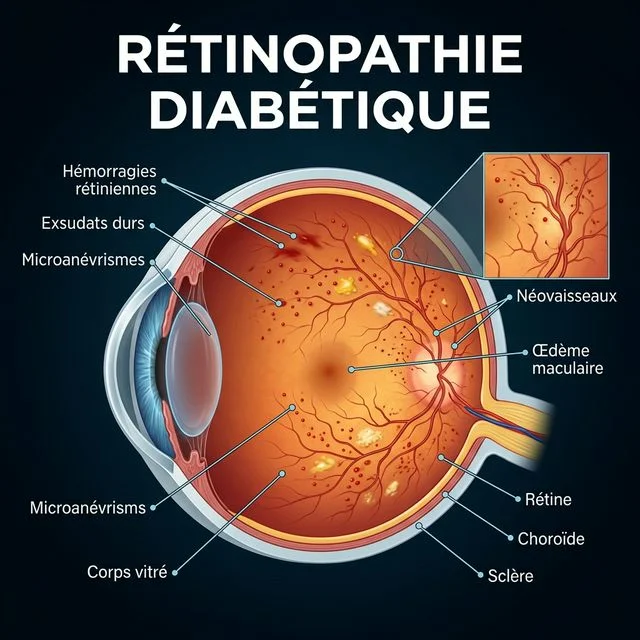
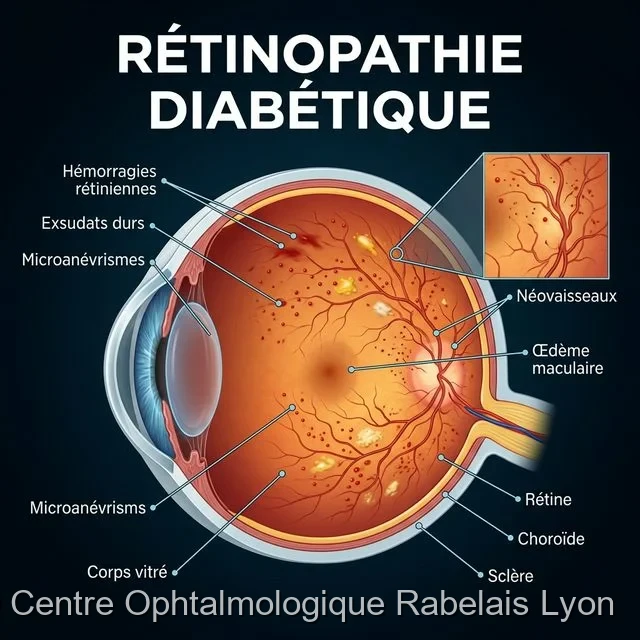
feat: watermark pathology illustrations and add right-click protection

Changed region(s): [[0.0, 0.9062, 0.9688, 0.9688]]

diff --git a/src/app/pathologies-retiniennes/page.tsx b/src/app/pathologies-retiniennes/page.tsx
@@ -158,7 +158,7 @@ export default function PathologiesOculairesPage() {
 										<b><h3><span class="cicle"></span><u>Rétinopathie Diabétique</u></h3></b>
 <div className="w-full sm:w-1/2 md:w-1/3 xl:w-1/4 float-right ml-0 md:ml-8 mb-6 mt-4 rounded-xl overflow-hidden shadow-lg border border-gray-100 bg-white p-2">
   <div className="relative aspect-square w-full rounded-lg overflow-hidden bg-[#f8f9fa] flex items-center justify-center">
-    <img src="/images/pathologies/diabetique.webp" alt="Rétinopathie Diabétique" className="w-full h-full object-cover transition-transform duration-700 hover:scale-105" />
+    <img oncontextmenu="return false;" draggable="false" src="/images/pathologies/diabetique.webp" alt="Rétinopathie Diabétique" className="w-full h-full object-cover transition-transform duration-700 hover:scale-105"  style="pointer-events: none; user-select: none; -webkit-user-drag: none;" />
   </div>
 </div>
 
@@ -211,7 +211,7 @@ export default function PathologiesOculairesPage() {
 										<b><h3><span class="cicle"></span><u>Occlusion Vasculaire</u></h3></b>
 <div className="w-full sm:w-1/2 md:w-1/3 xl:w-1/4 float-right ml-0 md:ml-8 mb-6 mt-4 rounded-xl overflow-hidden shadow-lg border border-gray-100 bg-white p-2">
   <div className="relative aspect-square w-full rounded-lg overflow-hidden bg-[#f8f9fa] flex items-center justify-center">
-    <img src="/images/pathologies/vasculaire.webp" alt="Occlusion Vasculaire" className="w-full h-full object-cover transition-transform duration-700 hover:scale-105" />
+    <img oncontextmenu="return false;" draggable="false" src="/images/pathologies/vasculaire.webp" alt="Occlusion Vasculaire" className="w-full h-full object-cover transition-transform duration-700 hover:scale-105"  style="pointer-events: none; user-select: none; -webkit-user-drag: none;" />
   </div>
 </div>
 
@@ -221,7 +221,7 @@ export default function PathologiesOculairesPage() {
 										<b><h3><span class="cicle"></span><u>Maladie de Coats</u></h3></b>
 <div className="w-full sm:w-1/2 md:w-1/3 xl:w-1/4 float-right ml-0 md:ml-8 mb-6 mt-4 rounded-xl overflow-hidden shadow-lg border border-gray-100 bg-white p-2">
   <div className="relative aspect-square w-full rounded-lg overflow-hidden bg-[#f8f9fa] flex items-center justify-center">
-    <img src="/images/pathologies/coats.webp" alt="Maladie de Coats" className="w-full h-full object-cover transition-transform duration-700 hover:scale-105" />
+    <img oncontextmenu="return false;" draggable="false" src="/images/pathologies/coats.webp" alt="Maladie de Coats" className="w-full h-full object-cover transition-transform duration-700 hover:scale-105"  style="pointer-events: none; user-select: none; -webkit-user-drag: none;" />
   </div>
 </div>
 
@@ -258,7 +258,7 @@ export default function PathologiesOculairesPage() {
 										<b><h3><span class="cicle"></span><u>CRSC (Chorio-Rétinopathie -Séreuse-Centrale)</u></h3></b>
 <div className="w-full sm:w-1/2 md:w-1/3 xl:w-1/4 float-right ml-0 md:ml-8 mb-6 mt-4 rounded-xl overflow-hidden shadow-lg border border-gray-100 bg-white p-2">
   <div className="relative aspect-square w-full rounded-lg overflow-hidden bg-[#f8f9fa] flex items-center justify-center">
-    <img src="/images/pathologies/crsc.webp" alt="CRSC (Chorio-Rétinopathie -Séreuse-Centrale)" className="w-full h-full object-cover transition-transform duration-700 hover:scale-105" />
+    <img oncontextmenu="return false;" draggable="false" src="/images/pathologies/crsc.webp" alt="CRSC (Chorio-Rétinopathie -Séreuse-Centrale)" className="w-full h-full object-cover transition-transform duration-700 hover:scale-105"  style="pointer-events: none; user-select: none; -webkit-user-drag: none;" />
   </div>
 </div>
 
@@ -318,7 +318,7 @@ export default function PathologiesOculairesPage() {
 										<b><h3><span class="cicle"></span><u>Maladie de Best</u></h3></b>
 <div className="w-full sm:w-1/2 md:w-1/3 xl:w-1/4 float-right ml-0 md:ml-8 mb-6 mt-4 rounded-xl overflow-hidden shadow-lg border border-gray-100 bg-white p-2">
   <div className="relative aspect-square w-full rounded-lg overflow-hidden bg-[#f8f9fa] flex items-center justify-center">
-    <img src="/images/pathologies/best.webp" alt="Maladie de Best" className="w-full h-full object-cover transition-transform duration-700 hover:scale-105" />
+    <img oncontextmenu="return false;" draggable="false" src="/images/pathologies/best.webp" alt="Maladie de Best" className="w-full h-full object-cover transition-transform duration-700 hover:scale-105"  style="pointer-events: none; user-select: none; -webkit-user-drag: none;" />
   </div>
 </div>
 
@@ -351,7 +351,7 @@ export default function PathologiesOculairesPage() {
 										<b><h3><span class="cicle"></span><u>Rétinite Pigmentaire</u></h3></b>
 <div className="w-full sm:w-1/2 md:w-1/3 xl:w-1/4 float-right ml-0 md:ml-8 mb-6 mt-4 rounded-xl overflow-hidden shadow-lg border border-gray-100 bg-white p-2">
   <div className="relative aspect-square w-full rounded-lg overflow-hidden bg-[#f8f9fa] flex items-center justify-center">
-    <img src="/images/pathologies/retinite.webp" alt="Rétinite Pigmentaire" className="w-full h-full object-cover transition-transform duration-700 hover:scale-105" />
+    <img oncontextmenu="return false;" draggable="false" src="/images/pathologies/retinite.webp" alt="Rétinite Pigmentaire" className="w-full h-full object-cover transition-transform duration-700 hover:scale-105"  style="pointer-events: none; user-select: none; -webkit-user-drag: none;" />
   </div>
 </div>
 
@@ -361,7 +361,7 @@ export default function PathologiesOculairesPage() {
 										<b><h3><span class="cicle"></span><u>Décollement Postérieur du Vitré</u></h3></b>
 <div className="w-full sm:w-1/2 md:w-1/3 xl:w-1/4 float-right ml-0 md:ml-8 mb-6 mt-4 rounded-xl overflow-hidden shadow-lg border border-gray-100 bg-white p-2">
   <div className="relative aspect-square w-full rounded-lg overflow-hidden bg-[#f8f9fa] flex items-center justify-center">
-    <img src="/images/pathologies/dpv.webp" alt="Décollement Postérieur du Vitré" className="w-full h-full object-cover transition-transform duration-700 hover:scale-105" />
+    <img oncontextmenu="return false;" draggable="false" src="/images/pathologies/dpv.webp" alt="Décollement Postérieur du Vitré" className="w-full h-full object-cover transition-transform duration-700 hover:scale-105"  style="pointer-events: none; user-select: none; -webkit-user-drag: none;" />
   </div>
 </div>
 
@@ -376,7 +376,7 @@ export default function PathologiesOculairesPage() {
 										<b><h3><span class="cicle"></span><u>Traction Vitréo-Maculaire</u></h3></b>
 <div className="w-full sm:w-1/2 md:w-1/3 xl:w-1/4 float-right ml-0 md:ml-8 mb-6 mt-4 rounded-xl overflow-hidden shadow-lg border border-gray-100 bg-white p-2">
   <div className="relative aspect-square w-full rounded-lg overflow-hidden bg-[#f8f9fa] flex items-center justify-center">
-    <img src="/images/pathologies/traction.webp" alt="Traction Vitréo-Maculaire" className="w-full h-full object-cover transition-transform duration-700 hover:scale-105" />
+    <img oncontextmenu="return false;" draggable="false" src="/images/pathologies/traction.webp" alt="Traction Vitréo-Maculaire" className="w-full h-full object-cover transition-transform duration-700 hover:scale-105"  style="pointer-events: none; user-select: none; -webkit-user-drag: none;" />
   </div>
 </div>
 
@@ -389,7 +389,7 @@ export default function PathologiesOculairesPage() {
 										<b><h3><span class="cicle"></span><u>Déchirure Rétinienne à Clapet</u></h3></b>
 <div className="w-full sm:w-1/2 md:w-1/3 xl:w-1/4 float-right ml-0 md:ml-8 mb-6 mt-4 rounded-xl overflow-hidden shadow-lg border border-gray-100 bg-white p-2">
   <div className="relative aspect-square w-full rounded-lg overflow-hidden bg-[#f8f9fa] flex items-center justify-center">
-    <img src="/images/pathologies/dechirure.webp" alt="Déchirure Rétinienne à Clapet" className="w-full h-full object-cover transition-transform duration-700 hover:scale-105" />
+    <img oncontextmenu="return false;" draggable="false" src="/images/pathologies/dechirure.webp" alt="Déchirure Rétinienne à Clapet" className="w-full h-full object-cover transition-transform duration-700 hover:scale-105"  style="pointer-events: none; user-select: none; -webkit-user-drag: none;" />
   </div>
 </div>
 
@@ -402,7 +402,7 @@ export default function PathologiesOculairesPage() {
 										<b><h3><span class="cicle"></span><u>Décollement de Rétine</u></h3></b>
 <div className="w-full sm:w-1/2 md:w-1/3 xl:w-1/4 float-right ml-0 md:ml-8 mb-6 mt-4 rounded-xl overflow-hidden shadow-lg border border-gray-100 bg-white p-2">
   <div className="relative aspect-square w-full rounded-lg overflow-hidden bg-[#f8f9fa] flex items-center justify-center">
-    <img src="/images/pathologies/decollement.webp" alt="Décollement de Rétine" className="w-full h-full object-cover transition-transform duration-700 hover:scale-105" />
+    <img oncontextmenu="return false;" draggable="false" src="/images/pathologies/decollement.webp" alt="Décollement de Rétine" className="w-full h-full object-cover transition-transform duration-700 hover:scale-105"  style="pointer-events: none; user-select: none; -webkit-user-drag: none;" />
   </div>
 </div>
 
@@ -423,7 +423,7 @@ export default function PathologiesOculairesPage() {
 										<b><h3><span class="cicle"></span><u>Trou Maculaire</u></h3></b>
 <div className="w-full sm:w-1/2 md:w-1/3 xl:w-1/4 float-right ml-0 md:ml-8 mb-6 mt-4 rounded-xl overflow-hidden shadow-lg border border-gray-100 bg-white p-2">
   <div className="relative aspect-square w-full rounded-lg overflow-hidden bg-[#f8f9fa] flex items-center justify-center">
-    <img src="/images/pathologies/trou.webp" alt="Trou Maculaire" className="w-full h-full object-cover transition-transform duration-700 hover:scale-105" />
+    <img oncontextmenu="return false;" draggable="false" src="/images/pathologies/trou.webp" alt="Trou Maculaire" className="w-full h-full object-cover transition-transform duration-700 hover:scale-105"  style="pointer-events: none; user-select: none; -webkit-user-drag: none;" />
   </div>
 </div>
 
@@ -448,7 +448,7 @@ export default function PathologiesOculairesPage() {
 										<b><h3><span class="cicle"></span><u>Membrane Epirétinienne (M.E.R)</u></h3></b>
 <div className="w-full sm:w-1/2 md:w-1/3 xl:w-1/4 float-right ml-0 md:ml-8 mb-6 mt-4 rounded-xl overflow-hidden shadow-lg border border-gray-100 bg-white p-2">
   <div className="relative aspect-square w-full rounded-lg overflow-hidden bg-[#f8f9fa] flex items-center justify-center">
-    <img src="/images/pathologies/mer.webp" alt="Membrane Epirétinienne (M.E.R)" className="w-full h-full object-cover transition-transform duration-700 hover:scale-105" />
+    <img oncontextmenu="return false;" draggable="false" src="/images/pathologies/mer.webp" alt="Membrane Epirétinienne (M.E.R)" className="w-full h-full object-cover transition-transform duration-700 hover:scale-105"  style="pointer-events: none; user-select: none; -webkit-user-drag: none;" />
   </div>
 </div>
 
@@ -467,7 +467,7 @@ export default function PathologiesOculairesPage() {
 										<b><h3><span class="cicle"></span><u>Sècheresse oculaire</u></h3></b>
 <div className="w-full sm:w-1/2 md:w-1/3 xl:w-1/4 float-right ml-0 md:ml-8 mb-6 mt-4 rounded-xl overflow-hidden shadow-lg border border-gray-100 bg-white p-2">
   <div className="relative aspect-square w-full rounded-lg overflow-hidden bg-[#f8f9fa] flex items-center justify-center">
-    <img src="/images/pathologies/secheresse.webp" alt="Sècheresse oculaire" className="w-full h-full object-cover transition-transform duration-700 hover:scale-105" />
+    <img oncontextmenu="return false;" draggable="false" src="/images/pathologies/secheresse.webp" alt="Sècheresse oculaire" className="w-full h-full object-cover transition-transform duration-700 hover:scale-105"  style="pointer-events: none; user-select: none; -webkit-user-drag: none;" />
   </div>
 </div>
 
@@ -550,7 +550,7 @@ export default function PathologiesOculairesPage() {
 										<b><h3><span class="cicle"></span><u>Glaucome </u></h3></b>
 <div className="w-full sm:w-1/2 md:w-1/3 xl:w-1/4 float-right ml-0 md:ml-8 mb-6 mt-4 rounded-xl overflow-hidden shadow-lg border border-gray-100 bg-white p-2">
   <div className="relative aspect-square w-full rounded-lg overflow-hidden bg-[#f8f9fa] flex items-center justify-center">
-    <img src="/images/pathologies/glaucome.webp" alt="Glaucome" className="w-full h-full object-cover transition-transform duration-700 hover:scale-105" />
+    <img oncontextmenu="return false;" draggable="false" src="/images/pathologies/glaucome.webp" alt="Glaucome" className="w-full h-full object-cover transition-transform duration-700 hover:scale-105"  style="pointer-events: none; user-select: none; -webkit-user-drag: none;" />
   </div>
 </div>
 
@@ -602,7 +602,7 @@ export default function PathologiesOculairesPage() {
 										<b><h3><span class="cicle"></span><u>Kératocône</u></h3></b>
 <div className="w-full sm:w-1/2 md:w-1/3 xl:w-1/4 float-right ml-0 md:ml-8 mb-6 mt-4 rounded-xl overflow-hidden shadow-lg border border-gray-100 bg-white p-2">
   <div className="relative aspect-square w-full rounded-lg overflow-hidden bg-[#f8f9fa] flex items-center justify-center">
-    <img src="/images/pathologies/keratocone.webp" alt="Kératocône" className="w-full h-full object-cover transition-transform duration-700 hover:scale-105" />
+    <img oncontextmenu="return false;" draggable="false" src="/images/pathologies/keratocone.webp" alt="Kératocône" className="w-full h-full object-cover transition-transform duration-700 hover:scale-105"  style="pointer-events: none; user-select: none; -webkit-user-drag: none;" />
   </div>
 </div>
 
